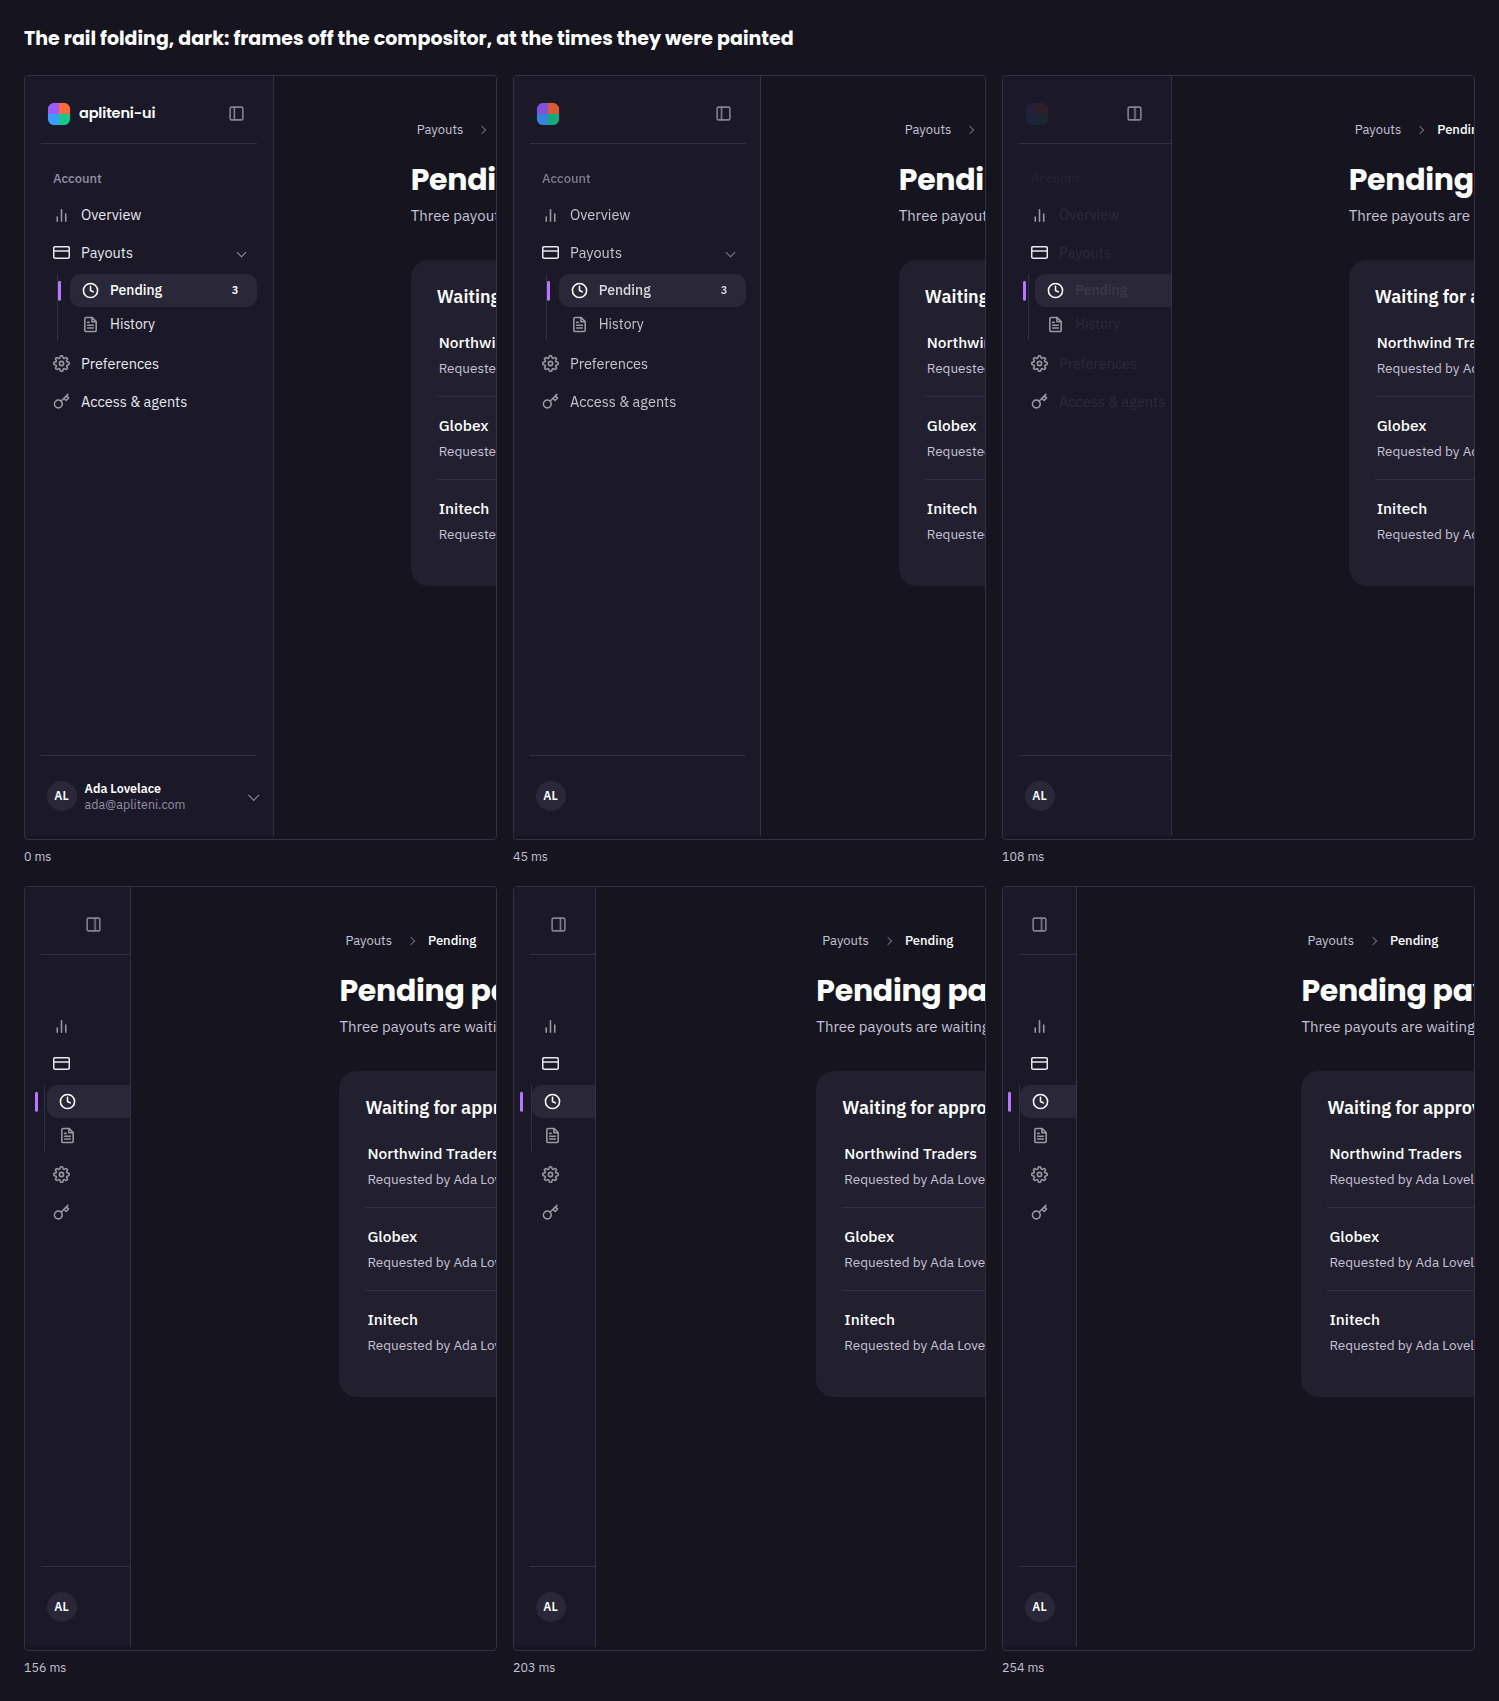
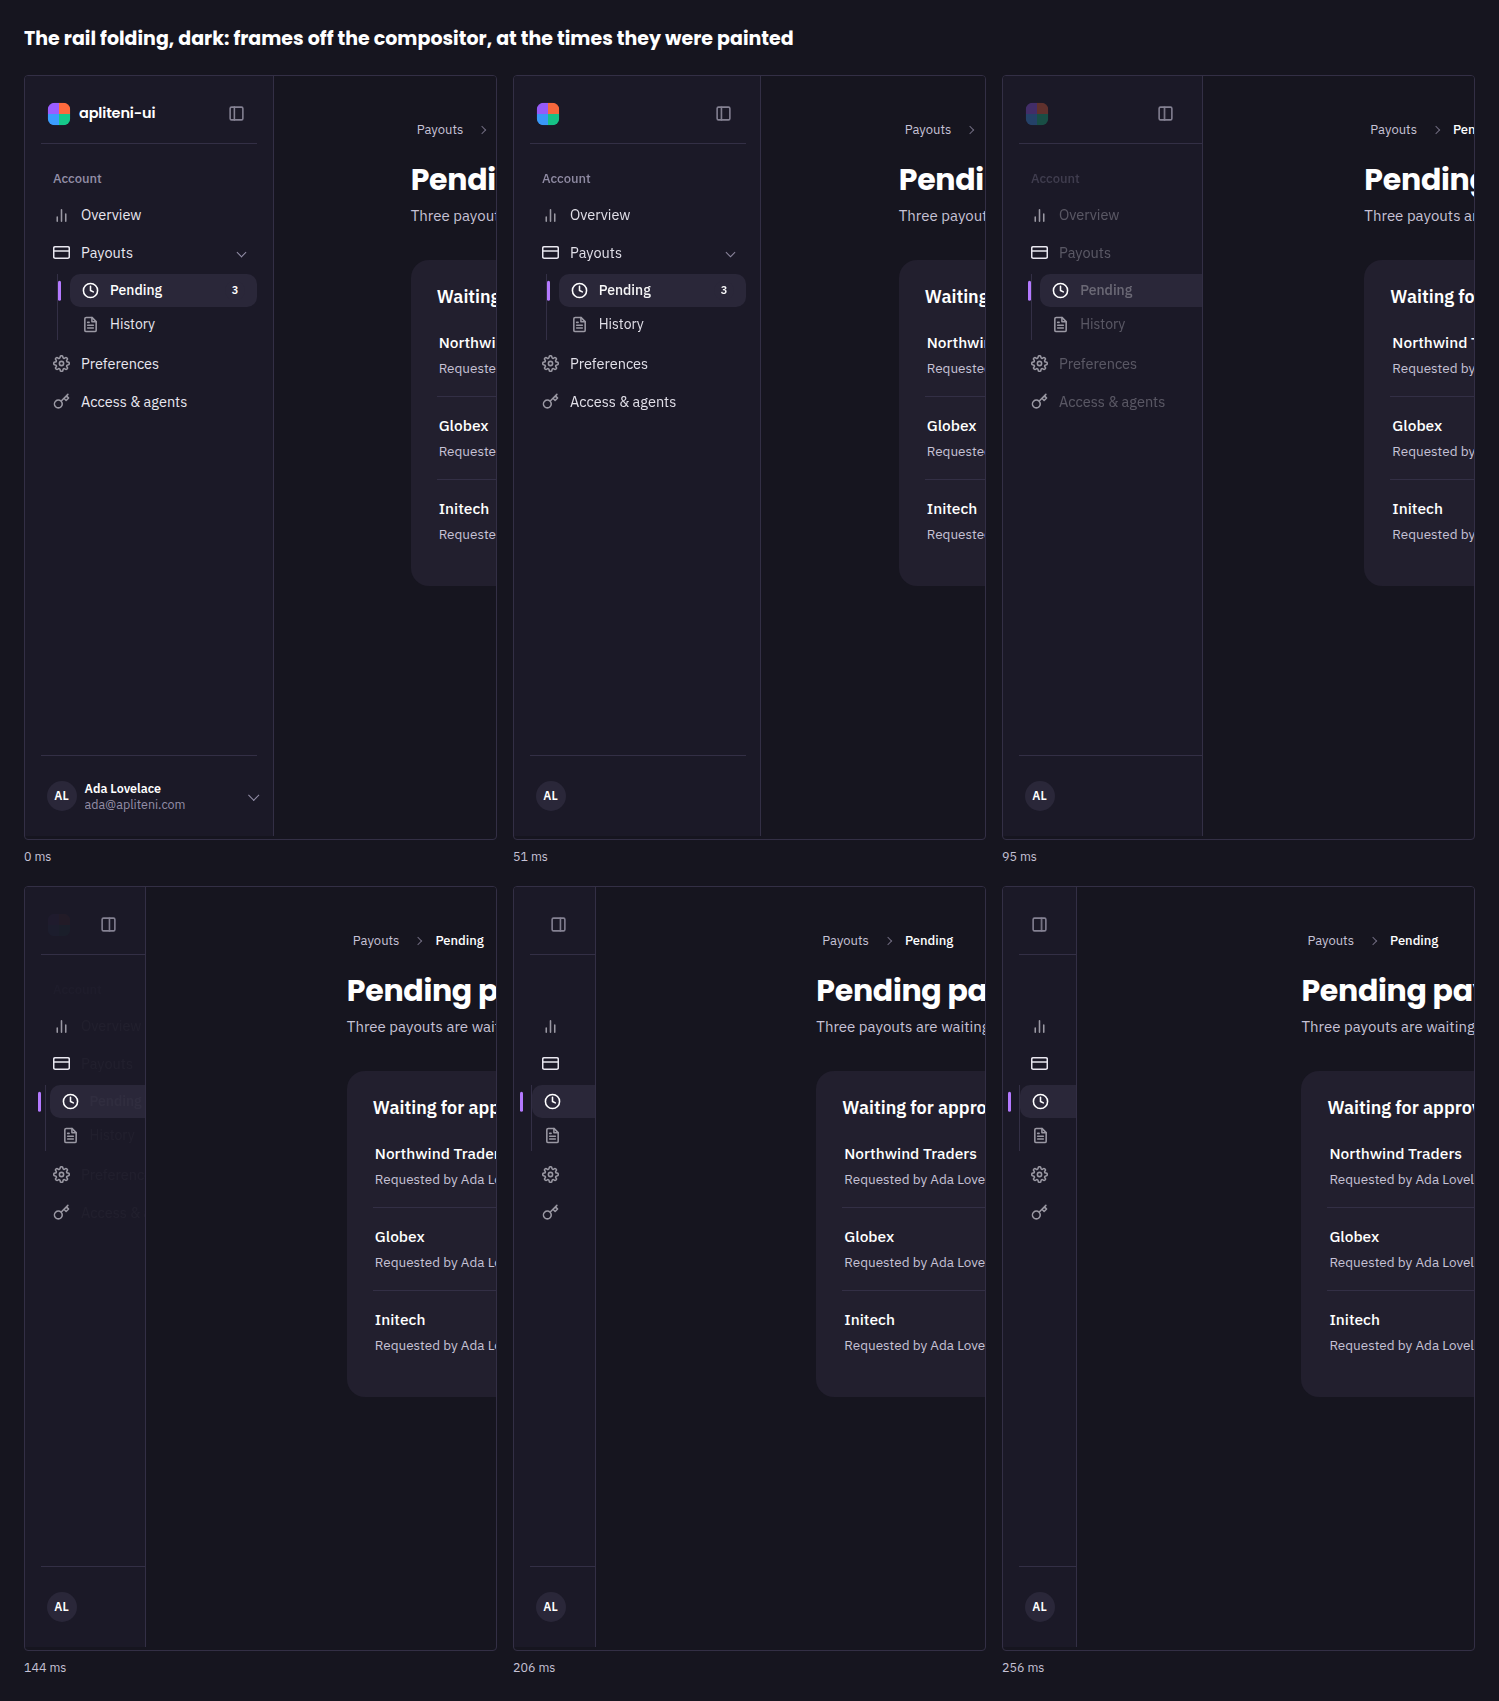
Two of the kit's own gates on the new round, and the citations that moved
`stories/motion-tokens.test.js`: the lockup's `visibility` was written on
`var(--ease)`. A discrete property holds its old value for the whole duration, so
a curve buys nothing there and one whose output leaves [0, 1] — `--ease-spring`
does — flips it mid-fade. It is `linear` now, as every other `visibility`
transition in the kit is, and the gate this round added asks each half of the
declaration for the curve that half should carry. The change paints nothing
differently: the six still shots re-taken after it came back byte-for-byte
identical to the ones already committed. The three that were not — both
filmstrips and one menu shot, all of them frames off the compositor — are the
fresh ones.

`ai-slop-detector`: `layout.css` was one line under the comment-ratio bar and
this round's comments took it over, which is the same finding the eighth round
made against three other files. The argument is in
`docs/specification.md#the-page-shell`, in full and where it can be reviewed, so
the sheet keeps four short notes and a pointer each. Paranoid is clean.

Four line pointers moved with the sheet: one in `CONTRIBUTING.md` and three in
the guideline decks.

Claude-Session: https://claude.ai/code/session_01QKusVkpNztbcUF3QVthwoE

diff --git a/src/styles/layout.css b/src/styles/layout.css
@@ -66,11 +66,10 @@
   gap: var(--space-2);
   padding: 2px 6px;
   text-decoration: none;
-  /* On the words' clock, because the fold takes the whole lockup and the words
-     on the rows below leave on the same one. `visibility` rides with it so the
-     link leaves the tab order; it is discrete, so it holds `visible` through the
-     fade out and flips on the first frame of the fade in. */
-  transition: opacity var(--dur-fast) var(--ease), visibility var(--dur-fast) var(--ease);
+  /* The lockup leaves on the words' clock, `visibility` with it so the link leaves
+     the tab order — `linear`, as every discrete property in the kit is.
+     why: docs/specification.md#the-page-shell */
+  transition: opacity var(--dur-fast) var(--ease), visibility var(--dur-fast) linear;
   /* display: brand — the rail's lockup is the same mark topbar.css sets, and the
      two have to be the same face or the shell reads as two products. */
   font-family: var(--font-display);
@@ -83,8 +82,8 @@
 .ui-app__brand svg { display: block; flex: none; }
 
 /* The head band: the product's mark, and the rail's own control at the far end of
-   the same line. One rule under the pair, none between them.
-   why: docs/specification.md#the-page-shell */
+   the same line. `min-width: 0` so a long word shrinks the lockup rather than pushing
+   the control off the band. why: docs/specification.md#the-page-shell */
 .ui-app__head {
   display: flex;
   align-items: center;
@@ -92,8 +91,6 @@
   padding-bottom: var(--space-3);
   border-bottom: 1px solid var(--border);
 }
-/* A long product word shrinks the lockup rather than pushing the control off the
-   end of the band, which the rail would then clip on an OPEN rail. */
 .ui-app__head > .ui-app__brand { min-width: 0; }
 
 /* The nav grows, so the reader block below it pins to the bottom of a full-height
@@ -187,21 +184,13 @@
    break in it from widening the panel instead. */
 .ui-app__user-panel .ui-dropdown__head span { display: block; color: var(--muted); font-size: 11px; overflow-wrap: anywhere; }
 
-/* The toggle's cell, at the far end of the brand row. No rule of its own: the band
-   draws one below the line, so the mark that folds the rail and the mark that names
-   the product are one head rather than two compartments. `margin-inline-start: auto`
-   is what puts it at the end whether or not there is a wordmark to its left — a
-   shell with a topbar says the product word up there and this band holds the control
-   alone. why: docs/specification.md#the-page-shell */
+/* The toggle's cell, at the far end of the brand row: the auto margin puts it there
+   with or without a wordmark beside it, and the offset below rides it back onto the
+   glyph column as the rail closes. `position: relative` and not a transform, because
+   the chip inside is `position: fixed`. why: docs/specification.md#the-page-shell */
 .ui-app__fold-row {
   flex: none;
   margin-inline-start: auto;
-  /* The one mark on the rail that does not hold its column. It rides the closing
-     edge, and the edge lands ON the glyph column, because the strip is that column;
-     the offset below is the two widths' own difference. `position: relative` and not
-     a transform, because the name chip inside is `position: fixed` and a transform
-     would make this box its containing block.
-     why: docs/specification.md#the-page-shell */
   position: relative;
   inset-inline-start: 0;
   transition: inset-inline-start var(--dur-med) var(--ease);
@@ -237,16 +226,10 @@
 :where(.ui-app.is-collapsed) .ui-app__rail .ui-app__who,
 :where(.ui-app.is-collapsed) .ui-app__rail .ui-dropdown__chevron,
 :where(.ui-app.is-collapsed) .ui-app__brand span { opacity: 0; pointer-events: none; }
-/* The toggle rides the open column's width back onto the glyph column. It is the
-   whole of the fold for this box: nothing here is laid out again, the button keeps
-   the strip it declares, and the offset arrives on the width's own clock.
-   why: docs/specification.md#the-page-shell */
+/* The toggle rides onto the glyph column — the two widths' own difference — and the
+   lockup goes whole, since that column is where its mark stood. The one pair with no
+   twin in the 720px block. why: docs/specification.md#the-page-shell */
 :where(.ui-app.is-collapsed) .ui-app__fold-row { inset-inline-start: calc(var(--ui-nav-strip) - var(--ui-nav-col)); }
-/* And the lockup goes whole, not just its words: the column the toggle lands on is
-   the column the mark stands on, and a folded rail is one column wide. This is the
-   one rule of the reader's fold with no twin in the 720px block — there the toggle
-   is not drawn, so nothing takes the mark's place and the mark stays.
-   why: docs/specification.md#the-page-shell */
 :where(.ui-app.is-collapsed) .ui-app__brand { opacity: 0; visibility: hidden; pointer-events: none; }
 :where(.ui-app.is-collapsed) .ui-app__rail .ui-nav__sub { margin-inline-start: 0; padding-inline-start: 0; border-inline-start-width: 0; }
 :where(.ui-app.is-collapsed) .ui-app__rail .ui-nav__item:not(:has(.ui-nav__ic))::after { opacity: 0.62; }

diff --git a/stories/apps/shell-states.test.js b/stories/apps/shell-states.test.js
@@ -488,7 +488,10 @@ test('the lockup leaves on the words\' clock, and its visibility rides with the 
     'the lockup declares no transition, so the product\'s mark blinks out on the first frame of a fold '
     + 'that takes 250ms — while every word on the rows below it fades',
   );
-  for (const prop of ['opacity', 'visibility']) {
+  // `visibility` is discrete: it holds its old value for the whole duration, so a curve
+  // buys nothing and one that leaves [0, 1] flips it mid-fade. stories/motion-tokens.test.js
+  // holds that for every sheet; this pairs it with the clock the two share.
+  for (const [prop, curve] of [['opacity', 'var(--ease)'], ['visibility', 'linear']]) {
     const one = travel.value.split(',').map((x) => x.trim()).find((x) => new RegExp(`^${prop}(\\s|$)`).test(x));
     assert.ok(one, `the lockup transitions \`${travel.value}\`, which does not carry ${prop} — the fold moves both`);
     assert.match(
@@ -497,7 +500,10 @@ test('the lockup leaves on the words\' clock, and its visibility rides with the 
       + 'that clock and the mark leaves with them; --dur-med is the width\'s, and the mark would still be '
       + 'fading when the edge arrived.',
     );
-    assert.match(one, /\bvar\(--ease\)/, `the lockup curves its ${prop} with \`${one}\` instead of --ease`);
+    assert.ok(
+      one.includes(curve),
+      `the lockup curves its ${prop} with \`${one}\` rather than \`${curve}\``,
+    );
   }
   assert.ok(
     !travel.important,

diff --git a/stories/guidelines/_layout-and-density.js b/stories/guidelines/_layout-and-density.js
@@ -104,7 +104,7 @@ export const RULES = [
       + 'beside it. A shell whose main column is --container has no sidebar. Reconciling the two '
       + 'as if they competed is what made nine widths look like one disagreement.',
     kit: [
-      { ref: 'src/styles/layout.css:253', pattern: 'var(--ui-app-main, var(--measure))' },
+      { ref: 'src/styles/layout.css:265', pattern: 'var(--ui-app-main, var(--measure))' },
       { ref: 'src/tokens/tokens.css:43', pattern: '--measure: 860px' },
     ],
   },
@@ -185,7 +185,7 @@ export const RULES = [
       + 'box; the numbers match today and neither follows the other, so a comment claiming a link '
       + 'that does not exist would cost a reader more than the silence does.',
     kit: [
-      { ref: 'src/styles/layout.css:297', pattern: '@media (max-width: 720px)' },
+      { ref: 'src/styles/layout.css:309', pattern: '@media (max-width: 720px)' },
       { ref: 'stories/breakpoints.test.js:117', pattern: 'every breakpoint is one of the documented steps' },
       { ref: 'stories/breakpoints.test.js:139', pattern: 'every documented step is a step something queries' },
     ],

diff --git a/stories/guidelines/_going-back.js b/stories/guidelines/_going-back.js
@@ -100,7 +100,7 @@ export const RULES = [
       + 'when the only useful way up is one step. The UK government design system puts the rest in a '
       + 'line: “Never use the back link component together with the Breadcrumbs component.” Handed '
       + 'both, appShell() draws the link and leaves the trail out.',
-    kit: [{ ref: 'src/components/shell.js:260', pattern: '${up || (crumbs.length' }],
+    kit: [{ ref: 'src/components/shell.js:261', pattern: '${up || (crumbs.length' }],
   },
   {
     id: 'section-lit',

diff --git a/stories/guidelines/_labels-and-titles.js b/stories/guidelines/_labels-and-titles.js
@@ -56,7 +56,7 @@ export const RULES = [
     doHtml: rankDo,
     dontHtml: rankDont,
     kit: [
-      { ref: 'src/styles/layout.css:262', pattern: 'rank: page-title' },
+      { ref: 'src/styles/layout.css:274', pattern: 'rank: page-title' },
       { ref: 'src/styles/card.css:64', pattern: 'rank: card-title' },
     ],
   },

diff --git a/CONTRIBUTING.md b/CONTRIBUTING.md
@@ -1624,7 +1624,7 @@ cannot hide another regression. See [coverage ledgers](#a-gate-carries-a-ledger-
 
 Two repaired subjects use `text-align: left`, following #251 and 0.25.1's dropdown reset at
 src/styles/nav.css:52 `.ui-nav__item {`. The recorded direction audit found one logical
-property, the symmetric src/styles/layout.css:283 `margin-inline: auto`, against 25 physical left/right
+property, the symmetric src/styles/layout.css:266 `margin-inline: auto`, against 25 physical left/right
 margin and padding declarations; no `dir=`, `[dir="rtl"]` or `:dir(`; and only physical
 text alignment. Vertical writing is a [non-goal](docs/specification.md#what-the-kit-does-not-do)
 held by the icon gate. RTL support would require revisiting these five declarations together.
